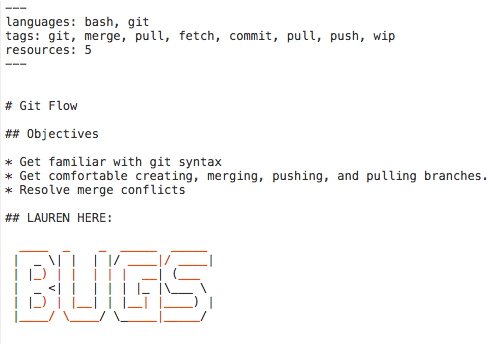
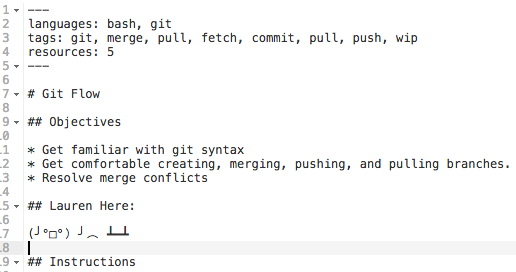
update readme

Changed region(s): [[0.0, 0.0, 1.0, 1.0], [0.4242, 0.7353, 0.4545, 0.7647]]

diff --git a/README.md b/README.md
@@ -116,6 +116,7 @@ From the walrus branch, switch to master. From master, make a new branch, add-wa
 </div>
 <!-- end polar bear picture and caption -->
 ```
+
 Remember to add and commit these changes as well.
 
 #### Merging with Conflicts
@@ -136,9 +137,13 @@ Now you're going to create a `add-walrus-and-polar-bear` branch on your remote r
 
 ### Getting a Remote Branch
 
-Many times when working in groups, a developer will branch off of master, in this example let's call this branch "change-color-scheme", add some code, then push this new branch to the remote repo for another developer to work on. Since you're working on this project alone, you're going to mimic the remote creation of a new branch.
+Many times when working in groups, a developer will branch off of master, in this example let's call this branch "change-color-scheme", add some code, then push this new branch to the remote repo for another developer to work on. 
 
-* You're going to pretend to be a team member for this section.
+Since you're working on this project alone, you're going to mimic the remote creation of a new branch. You're going to pretend to be a team member, Lauren, for this section. Lauren likes to add emoticons to readmes.
+
+#### Lauren Time
+
+* Pretend to be Lauren.
 * Create a new branch called "add-fireflies" in your git-flow repository on Github using the pictured interface:
   * ![branch dropdown](/public/img/branch-dropdown.png)
 * Type "add-fireflies" then click on "Create branch: add-fireflies from 'master'", as pictured below:
@@ -154,25 +159,47 @@ Many times when working in groups, a developer will branch off of master, in thi
 
 ## Lauren Here:
 
-____  _    _  _____  _____ 
-|  _ \| |  | |/ ____|/ ____|
-| |_) | |  | | |  __| (___  
-|  _ <| |  | | | |_ |\___ \ 
-| |_) | |__| | |__| |____) |
-|____/ \____/ \_____|_____/
+(╯°□°）╯︵ ┻━┻
 
 ```
 
 * Now the readme should look like this:
-  * ![bugs added to readme](/public/img/laruen.png)
+  * ![table flip added to readme](/public/img/laruen.png)
 
-* Scroll to the bottom, add a commit message like "added bugs to readme", and click commit changes.
+* Scroll to the bottom, add a commit message like "added table flip to readme", and click commit changes.
   * ![commit changes](/public/img/commit-changes.png)
 * Lauren's work here is done. You can go back to being you.
 
 #### You Time
 
 Now you need to get the changes that Lauren made.
+
+* Update your remote-tracking branches by writing a fetch command: `git fetch origin add-fireflies` or `git fetch --all`
+* Type `git branch`. You probably still only see `master` and `add-walrus-and-polar-bear`. Think abou why this is.
+* Checkout the branch Lauren created: `git checkout add-fireflies`
+* Now type `git branch`. You should see three branches: `master`, `add-walrus-and-polar-bear`, and `add-fireflies` (highlighted)
+* If you open the readme in Sublime from the add-fireflies branch, you should see Lauren's table flip addition.
+* Still in the `add-fireflies` branch, add the HTML code below to `index.html`, below the turtle.
+
+```HTML
+<!-- begin fireflies picture and caption -->
+<div class="center-container">
+  <div class="card">
+    <img src="public/img/polar-bear.jpg" alt="walrus swimming with bubbles">
+  </div>
+  <div class="card">
+    <div class="caption">
+      <h4>Searching for Love</h4>
+      <p>Spencer Black</p>
+      <p>Blue ghost fireflies in Brevard, North Carolina</p>
+    </div>
+  </div>
+</div>
+<!-- end fireflies picture and caption -->
+```
+
+* Add and commit these changes (`git add index.html`, `git commit -m "add firefly img and caption`") before checking out to master (`git checkout master`). 
+* From master, merge `add-butterflies` (`git merge add-fireflies`). Make sure all three pictures are there (tree, turtle, fireflies) before pushing up to your remote repository (`git push origin master`).
 
 ## Resources
 * [SourceTree Blog](http://blog.sourcetreeapp.com/) - [Merge or Rebase?](http://blog.sourcetreeapp.com/2012/08/21/merge-or-rebase/)
